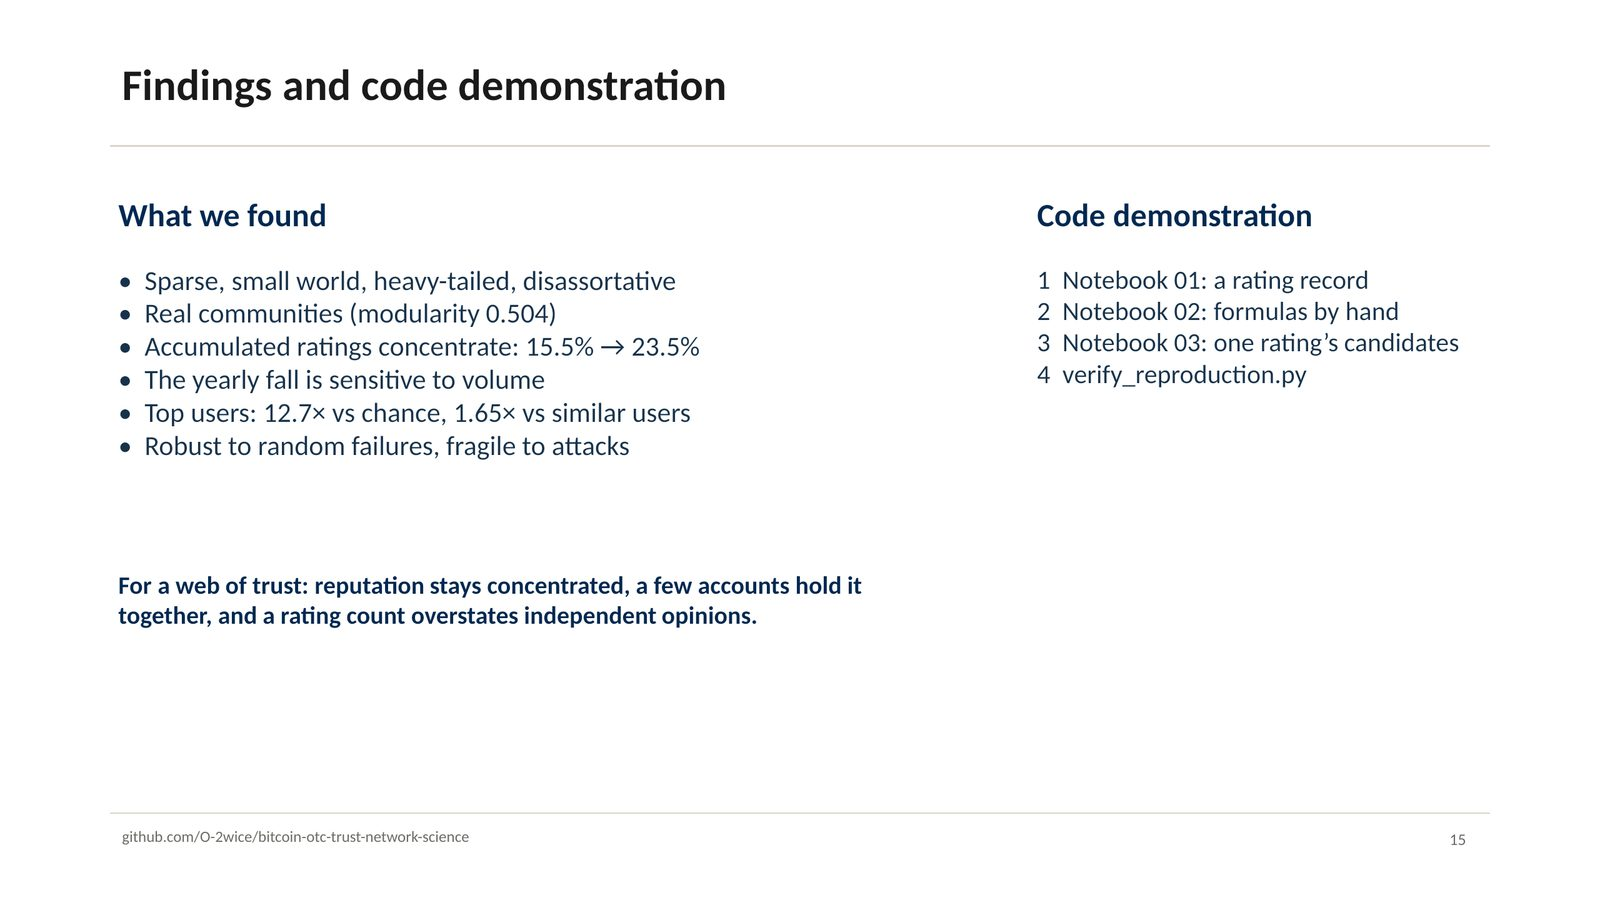
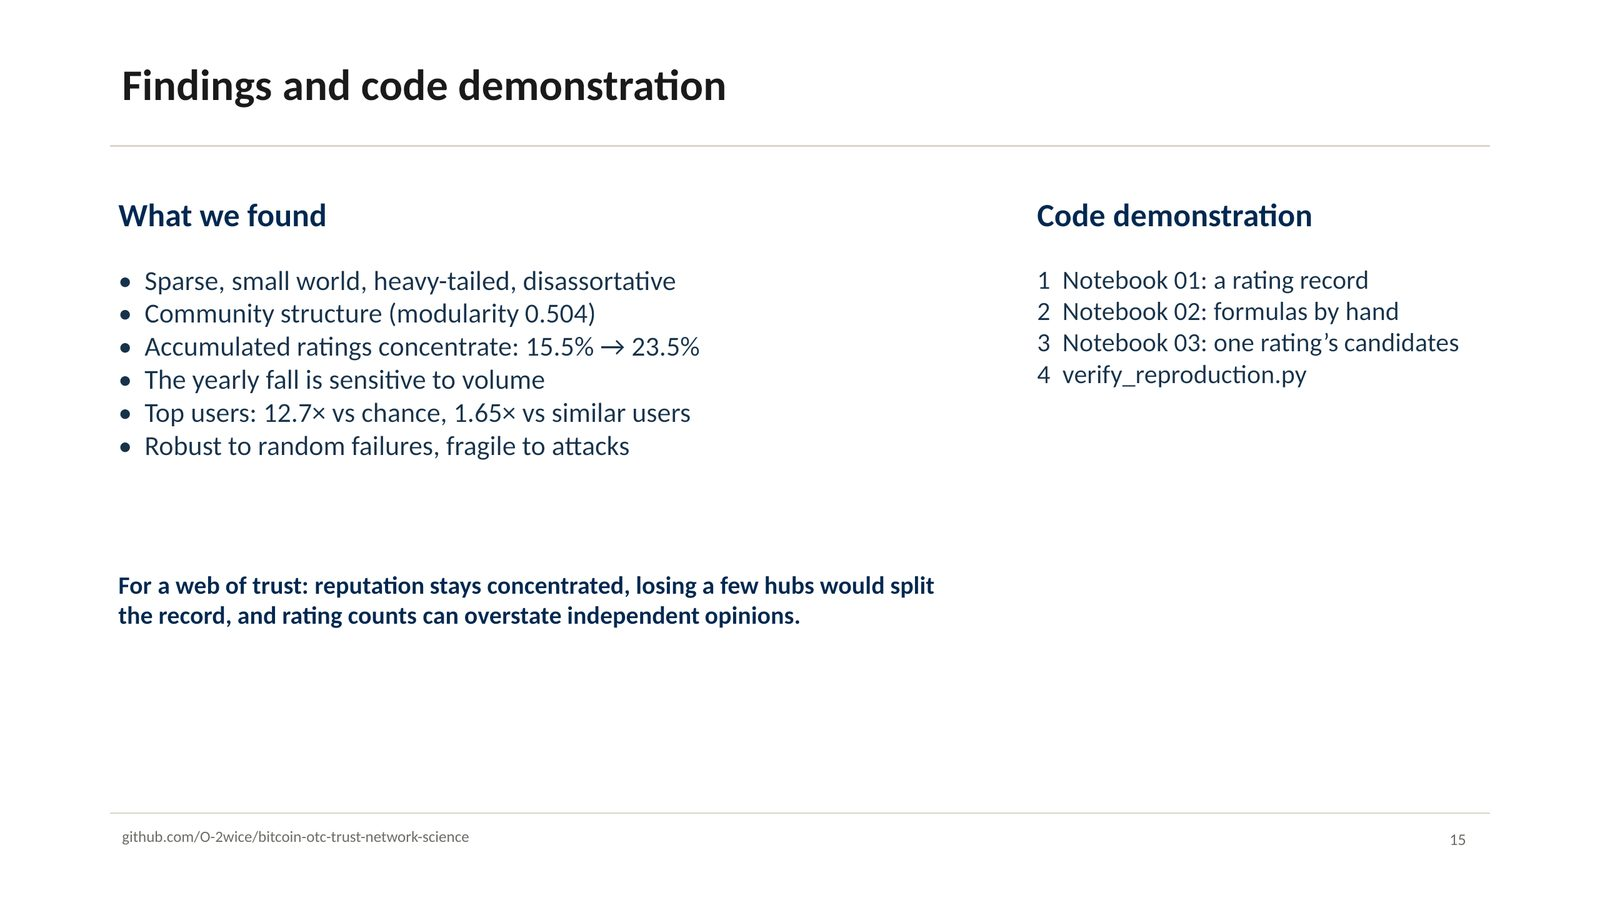
Describe hub removal as a simulation and soften the community and trust wording

Changed region(s): [[0.0938, 0.6222, 0.5938, 0.7156], [0.0938, 0.3422, 0.375, 0.3733]]

diff --git a/docs/index.html b/docs/index.html
@@ -284,7 +284,7 @@ footer b { color: var(--ink); }
         <h3>A targeted attack</h3>
         <p>Now remove the 15% of users with the most links. The network shatters, and its largest connected piece holds</p>
         <span class="big">under 1%</span>
-        <p>of users. The hubs are what hold the web of trust together.</p>
+        <p>of users. In this simulation, the hubs are what hold the network together.</p>
       </div>
     </div>
   </div>
@@ -427,8 +427,8 @@ footer b { color: var(--ink); }
       <p class="kicker">What it means</p>
       <h2>Lessons for a web of trust</h2>
       <p><b>Reputation stays concentrated.</b> By 2015, 56 accounts held 23.5% of positive ratings. Old ratings stay in the record while new ones fell after 2013, so a high score can describe the past more than the present.</p>
-      <p><b>A few accounts hold it together.</b> Losing or compromising a handful of hubs would disconnect far more of the trust record than the same number of random departures.</p>
-      <p><b>Counts overstate independent opinions.</b> About half of the ratings to users already in the network return an earlier one, often within minutes, so a rating count is not a count of independent endorsements.</p>
+      <p><b>A few accounts keep it connected.</b> In our simulation, removing a handful of hubs disconnects far more of the rating record than removing the same number of users at random.</p>
+      <p><b>Counts can overstate independent opinions.</b> About half of the ratings to users already in the network return an earlier one, often within minutes, so a rating count is not a count of independent endorsements.</p>
       <p><b>Activity matters.</b> Comparing users with the same tenure and recent activity shrinks the pull of highly rated users from 12.7 to 1.65 times chance. This is an association: we cannot separate activity from trading volume, which the data do not record.</p>
       <p class="byline">Limits: ratings are opinions, not verified trades; the data have no registration dates or trade volumes; one person may hold several IDs.</p>
     </div>
